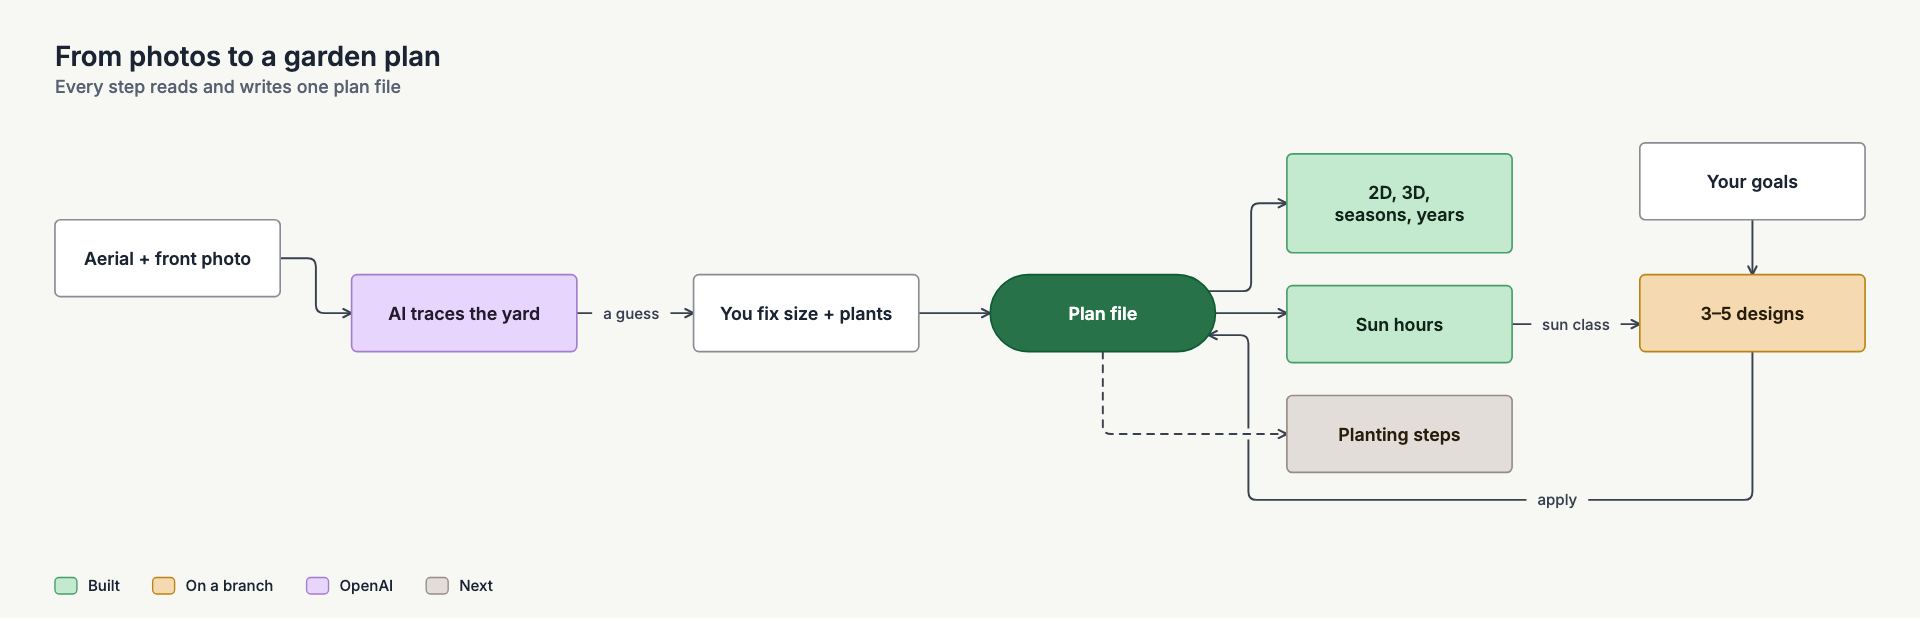
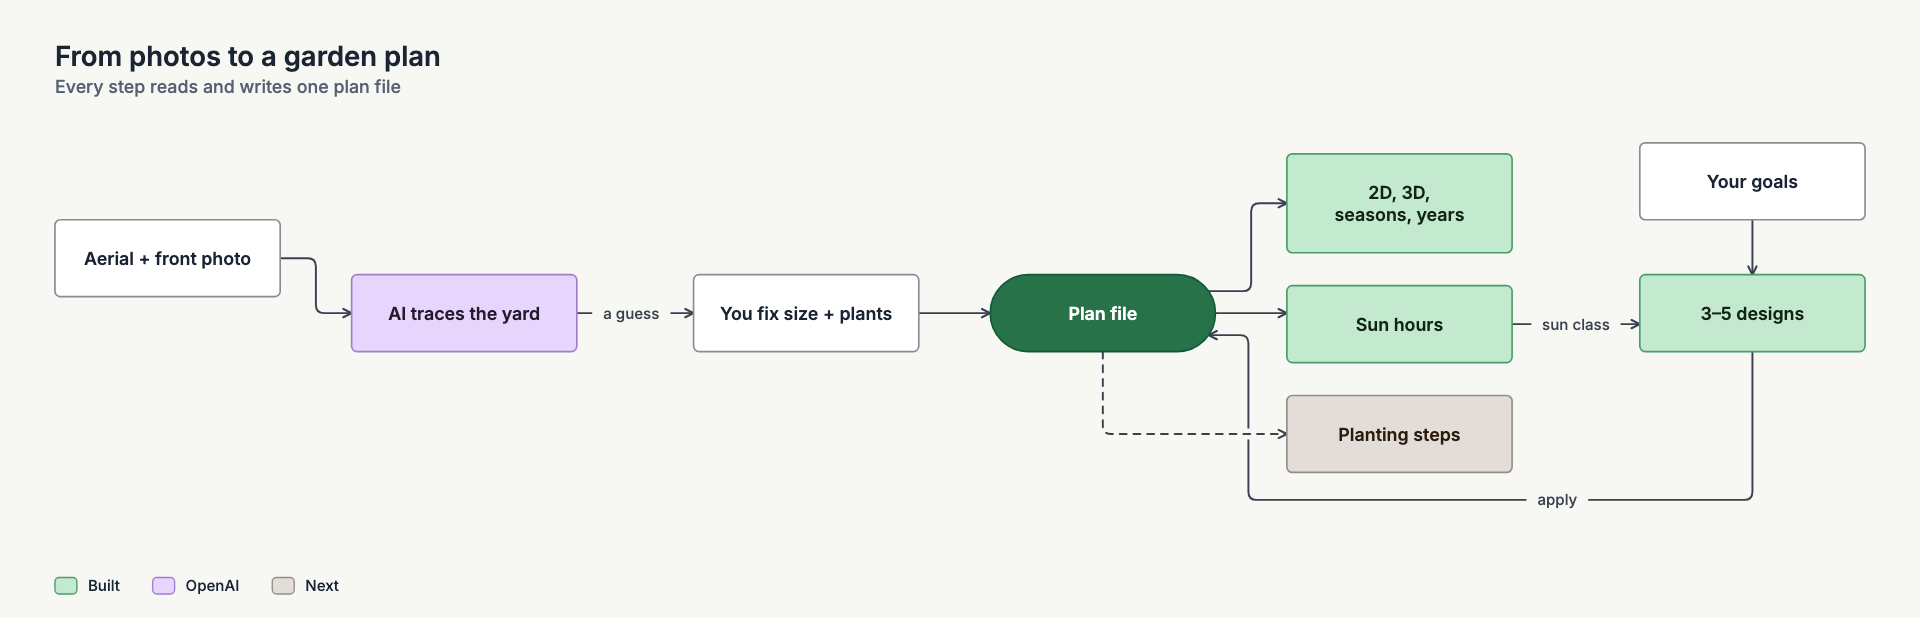
Update the README and Devpost story for design ideas, gallery, and 153 plants

Changed region(s): [[0.8438, 0.4304, 0.9688, 0.5841], [0.0625, 0.9223, 0.25, 0.9838]]

diff --git a/docs/hackathon/devpost.md b/docs/hackathon/devpost.md
@@ -15,7 +15,9 @@ We wanted a planner where you start from your own house, not a blank grid. Take 
 - **Edit the plan.** The plan is drawn as a watercolor, like a landscape architect's sketch. Place one plant, draw a row, fill an area, draw beds and paths, move and resize things, undo.
 - **See it change.** Move between seasons and years 1 to 5. Trees go bare in winter, shrubs fill in, and the 3D yard view shows the same plan in depth.
 - **Know where the sun is.** A sun model works out hours of direct sun for every 2 ft square of the lot, from the house, fences and trees. Each spot comes out full sun, part sun or shade.
-- **95 Indiana plants**, filterable by type, sun and bloom color.
+- **Get design ideas.** Say what you want (calm, songbirds, safe for kids) and pick a dial: Light touch, Refresh or Redo. The app reviews the yard as it is, then draws 3 to 5 designs in different styles, such as cottage, prairie and modern. Each design is a list of changes on your plan. Accept or reject each change, or draw a box to rework just one bed.
+- **Browse the gallery.** Best shows the top 10 gardens, New lets you rate recent ones, and Mine holds your designs with a Public switch. A public garden never shows the address or the aerial photo.
+- **153 Indiana plants**, filterable by type, sun and bloom color. The 15 invasive ones are flagged so you know what to pull, not plant.
 - **Accounts.** Register with an email and password, and you only see your own plans.
 
 ## How we built it
@@ -26,18 +28,18 @@ We started at about 11 AM with an empty repo. The idea came from a nine-minute v
 
 **One data shape.** Then ten more questions on the 2D plan, and the first build went in as a stack of four PRs: the property and plant data model, the watercolor renderer, the editor, and the plant gallery. Everything reads one `Property` file, checked by a Zod schema. The editor, the 2D plan, the 3D view, the sun model and the AI all use that one shape, so nothing gets translated between them.
 
-**Fan the work out.** By early afternoon one Claude Code session ran as the coordinator. It wrote briefs and started six worker sessions, each in its own git worktree with the files it owned spelled out: photo import, an eval loop for that import, import in the editor, the sun model, the design engine, and accounts. Codex grew the plant library from 25 to 95 plants and fixed the deploy. At the same time two teammates worked straight on `main`: Meghaj Kabra built the first version of the JSON database, and Shrestha Shakila built the zoomable editor, the 3D yard view, the time cards and the plant illustrations. The workers rebased onto their changes as they landed.
+**Fan the work out.** By early afternoon one Claude Code session ran as the coordinator. It wrote briefs and started six worker sessions, each in its own git worktree with the files it owned spelled out: photo import, an eval loop for that import, import in the editor, the sun model, the design engine, and accounts. Codex grew the plant library from 25 to 95 plants and fixed the deploy. At the same time two teammates worked straight on `main`: Meghaj Kabra built the first version of the JSON database and then the public gallery, and Shrestha Shakila built the zoomable editor, the 3D yard view, the time cards, the plant illustrations and the landing page. The workers rebased onto their changes as they landed.
 
-**Evals for the AI import.** The photo import sends the images to OpenAI (`gpt-6.1-terra`) with a strict JSON schema. The model traces shapes on a 0–1000 grid and code turns that into feet, so the model never does unit math. We pulled 12 real listings in 46220 and ran 66 import runs against them, scoring scale error, house overlap and lot size. A dev page draws every run in the real renderer, so you can see a bad import, not just read a score.
+**Evals for the AI import.** The photo import sends the images to OpenAI (`gpt-6.1-terra`) with a strict JSON schema. The model traces shapes on a 0–1000 grid and code turns that into feet, so the model never does unit math. We pulled 12 real listings in 46220, added 10 harder cases (off-center aerials, other zoom levels, no photos), and ran each one 3 times, scoring scale error, house overlap and lot size. A dev page draws every run in the real renderer, so you can see a bad import, not just read a score.
 
 **Stack:** TypeScript, SolidJS, SolidStart, Three.js, Zod, Vitest, pnpm. Data is plain JSON files. It deploys to one server with Coolify at flower-power.apps.byroni.us.
 
 ## How we kept it trustworthy
 
-- **Tests where it would break.** 106 tests in 6 files. They cover every plant and property file, unknown plant references, mature plant spacing, that a rescale is one undo step and keeps every point over the same aerial pixel, the sun math, and that one user cannot read another user's plan (and a forged cookie gets a 401).
-- **Agent work went through PRs.** 11 merged PRs today, each with a description and screenshots. Each worker ran `pnpm typecheck` and `pnpm test` and checked the change in a browser before handing it back. Teammates committed straight to `main`, and the workers rebased onto it.
-- **The AI output gets checked.** The import result has to pass the schema. The design engine (still on a branch) drops any AI edit that breaks a rule, like a part-shade groundcover placed in full sun, and leaves a note saying why.
-- **Real addresses stay out of the repo.** Listing photos, aerials and saved AI runs are gitignored. The test lots from real addresses were deleted after each check. The public gallery we plan will hide the address and the aerial.
+- **Tests where it would break.** 207 tests in 10 files. They cover every plant and property file, unknown plant references, mature plant spacing, that a rescale is one undo step and keeps every point over the same aerial pixel, the sun math, and that one user cannot read another user's plan (and a forged cookie gets a 401). One gallery test fails on `main` as of 4:25 PM, and it's the next fix.
+- **Agent work went through PRs.** 15 merged PRs today, each with a description and screenshots. Each worker ran `pnpm typecheck` and `pnpm test` and checked the change in a browser before handing it back. Teammates committed straight to `main`, and the workers rebased onto it.
+- **The AI output gets checked.** The import result has to pass the schema. The design engine drops any AI change that breaks a rule and tells you which ideas it left out. The rules: library plants only, nothing on the house or paths, tree spacing, no patios unless you ask, kid- and pet-safe plants when you say so, and sun from the sun model. It passes 8 of 8 eval cases.
+- **Real addresses stay out of the repo.** Listing photos, aerials and saved AI runs are gitignored. The test lots from real addresses were deleted after each check. The public gallery leaves out the address and the aerial.
 - **Secrets stay out too.** The OpenAI key lives in a gitignored `.env`. `AI_FAKE=1` replays saved AI runs, so UI work and tests make no paid calls.
 
 ## Challenges we ran into
@@ -51,7 +53,7 @@ We started at about 11 AM with an empty repo. The idea came from a nine-minute v
 - A real yard goes from photos to an editable watercolor plan, and you can see whether the AI got it right.
 - The eval loop told us something useful: the import passes 53 of 66 runs (80%). That's short of our 90% target, and we know where it fails.
 - The sun model is fast enough to rerun on every edit (about 20 ms for a 100 × 200 ft lot), and turning the plan moves the shadows the right way.
-- Three people and a set of agent sessions merged 11 PRs in one afternoon, and `main` ends the day with all 106 tests passing.
+- Three people and a set of agent sessions merged 15 PRs in one afternoon.
 
 ## What we learned
 
@@ -62,7 +64,7 @@ Agent output needs something you can look at. A pass rate on a dev page, a scree
 ## What's next for Flower Power
 
 - Fetch the aerial from the address at a known scale, so the scale guess goes away.
-- Merge the design engine. It's built and passes its evals (8 of 8 cases), but the editor screens for it aren't done. You give it goals like "peaceful, private, birds" and it gives back 3 to 5 designs in different styles that you can try on your own plan.
+- Back the gallery with the server. Today its community is sample data and ratings live in your browser.
 - Turn a design into a step-by-step plan: what to plant when, and how to care for it.
 - Put it in front of a homeowner and see if they make a better planting decision with it. That's the test that matters.
 

diff --git a/README.md b/README.md
@@ -1,8 +1,36 @@
 # Flower Power
 
-Flower Power is a garden planner for Indiana homeowners. You give it your address and a few photos. It paints your whole property as a watercolor plan and suggests gardens that fit your sun and shade. You can see a garden in 2D and 3D through the seasons and 5 years out. You also get a step-by-step plan for planting and care.
+Flower Power is a garden planner for Indiana homeowners. Start from photos of your own yard, get a watercolor plan of what's there, then try changes and see them through the seasons and the next five years.
 
-The first part in progress is the 2D plan renderer. See the [plan views shape brief](docs/intent/plan-views/shape-brief.md).
+- Live app: https://flower-power.apps.byroni.us
+- Devpost (Indy Init 2026): https://devpost.com/software/flower-power-bford0
+
+![Landing page](docs/hackathon/screens/landing.jpg)
+
+## What works now
+
+- **Start from photos.** Drop in a top-down aerial and a front photo. The AI (OpenAI `gpt-6.1-terra`) traces the house, lot, beds, fences and trees, and guesses which plants are there. You fix one size and confirm the guesses.
+- **Edit the plan.** A watercolor plan you can draw on: plants, rows, filled areas, beds, paths, fences and structures, with undo.
+- **See it change.** Seasons, months, and years 1 to 5, in 2D, 3D, or side by side.
+- **Sun and shade.** A sun model gives hours of direct sun for every 2 ft square: full sun, part sun or shade.
+- **Design ideas.** Give goals and a dial (Light touch, Refresh, Redo). You get a review of the yard, then 3 to 5 designs in different styles. Accept or reject each change, or rework one area.
+- **Gallery.** Best, New and Mine, with a Public switch. Public gardens leave out the address and aerial. The community is sample data for now.
+- **153 Indiana plants**, with the 15 invasive ones flagged.
+- **Accounts.** Email and password; you see only your own plans.
+
+| Design ideas | 2D and 3D |
+| --- | --- |
+| ![Design ideas](docs/hackathon/screens/design-cards.jpg) | ![Side by side](docs/hackathon/screens/side-by-side.jpg) |
+
+![Gallery](docs/hackathon/screens/gallery.jpg)
+
+## How it fits together
+
+![From photos to a garden plan](docs/hackathon/app-flow.png)
+
+![Tech stack](docs/hackathon/tech-stack.png)
+
+How we built it in one day: [process diagram](docs/hackathon/process.png) and the [Devpost story](docs/hackathon/devpost.md).
 
 ## Run it
 
@@ -13,29 +41,22 @@ pnpm install
 pnpm dev
 ```
 
-`pnpm test` checks every plant and property file. `pnpm typecheck` checks the TypeScript.
+Put `OPENAI_API_KEY` in `.env` for photo import and design ideas. Set `AI_FAKE=1` to replay saved AI runs with no paid calls. `SESSION_SECRET` is made on first use if you don't set it.
+
+`pnpm test` runs the tests, including a check of every plant and property file. `pnpm typecheck` checks the TypeScript.
+
+Dev pages: `/dev/import`, `/dev/eval` (import eval runs), `/dev/sun` (sun hours), and `/dev/designs`.
 
 ## Data
 
 - `data/plants/`: one JSON file for each plant. See [data/plants/README.md](data/plants/README.md) to add a plant.
 - `data/properties/`: one JSON file for each property. The schema is in `src/model/property.ts`.
-
-## Overview
-
-The [Flower Power plan overview](https://claude.ai/artifact/LLiJW3prBD1RbqrwGhM5cB) is a one-page summary. It shows the first product, the key decisions, the first proof, and the 17 spikes in groups. The page source is [overview.html](docs/intent/garden-design-app/overview.html).
+- `data/users/`, `data/ai-runs/`, `data/images/`: per-user plans, saved AI runs, and uploaded photos. These are not committed.
 
 ## Planning documents
 
-The [intent index](docs/intent/README.md) lists the seven parts of the product, such as property capture, the plant library, and plan views. Each part has its own intent brief and open question.
+The [intent index](docs/intent/README.md) lists each part of the product with its intent brief. The product brief, shape and spikes are in [docs/intent/garden-design-app/](docs/intent/garden-design-app/). The [plan overview](https://claude.ai/artifact/LLiJW3prBD1RbqrwGhM5cB) is a one-page summary.
 
-The product documents are in [docs/intent/garden-design-app/](docs/intent/garden-design-app/):
+## Updating the Devpost page
 
-- [intent-brief.md](docs/intent/garden-design-app/intent-brief.md): what the app is for and who it is for.
-- [shape-brief.md](docs/intent/garden-design-app/shape-brief.md): what the first product includes, the key decisions, and the first proof.
-- [spikes.md](docs/intent/garden-design-app/spikes.md): the spikes and research to do before and during the build.
-- [initiative-map.json](docs/intent/garden-design-app/initiative-map.json): the record of each question round, claim, and decision.
-- [mockups/](docs/intent/garden-design-app/mockups/): early concept mockups from the first voice memo.
-
-## Next step
-
-Run spikes S1, S5, S15, and S2, then run the first proof. The first proof takes one real Indiana yard to a watercolor plan with 10 plants and a working time slider.
+The Devpost story and diagrams live in [docs/hackathon/](docs/hackathon/). See its [README](docs/hackathon/README.md) for the links and steps.

diff --git a/docs/hackathon/README.md b/docs/hackathon/README.md
@@ -45,4 +45,3 @@ npx draftably@0.11.0 open docs/hackathon
 
 - Built With tags list only typescript, solidjs and three.js. Add zod, solidstart, openai, vitest, coolify, claude-code and codex.
 - Team members: Shakila was invited by email on November 7 and must accept. Meghaj joins with the private join link on the edit page (Invite your team). Don't commit that link.
-- When the design engine merges, change it from "On a branch" to "Built" in `app-flow.draft` and in the "What's next" section of `devpost.md`.
